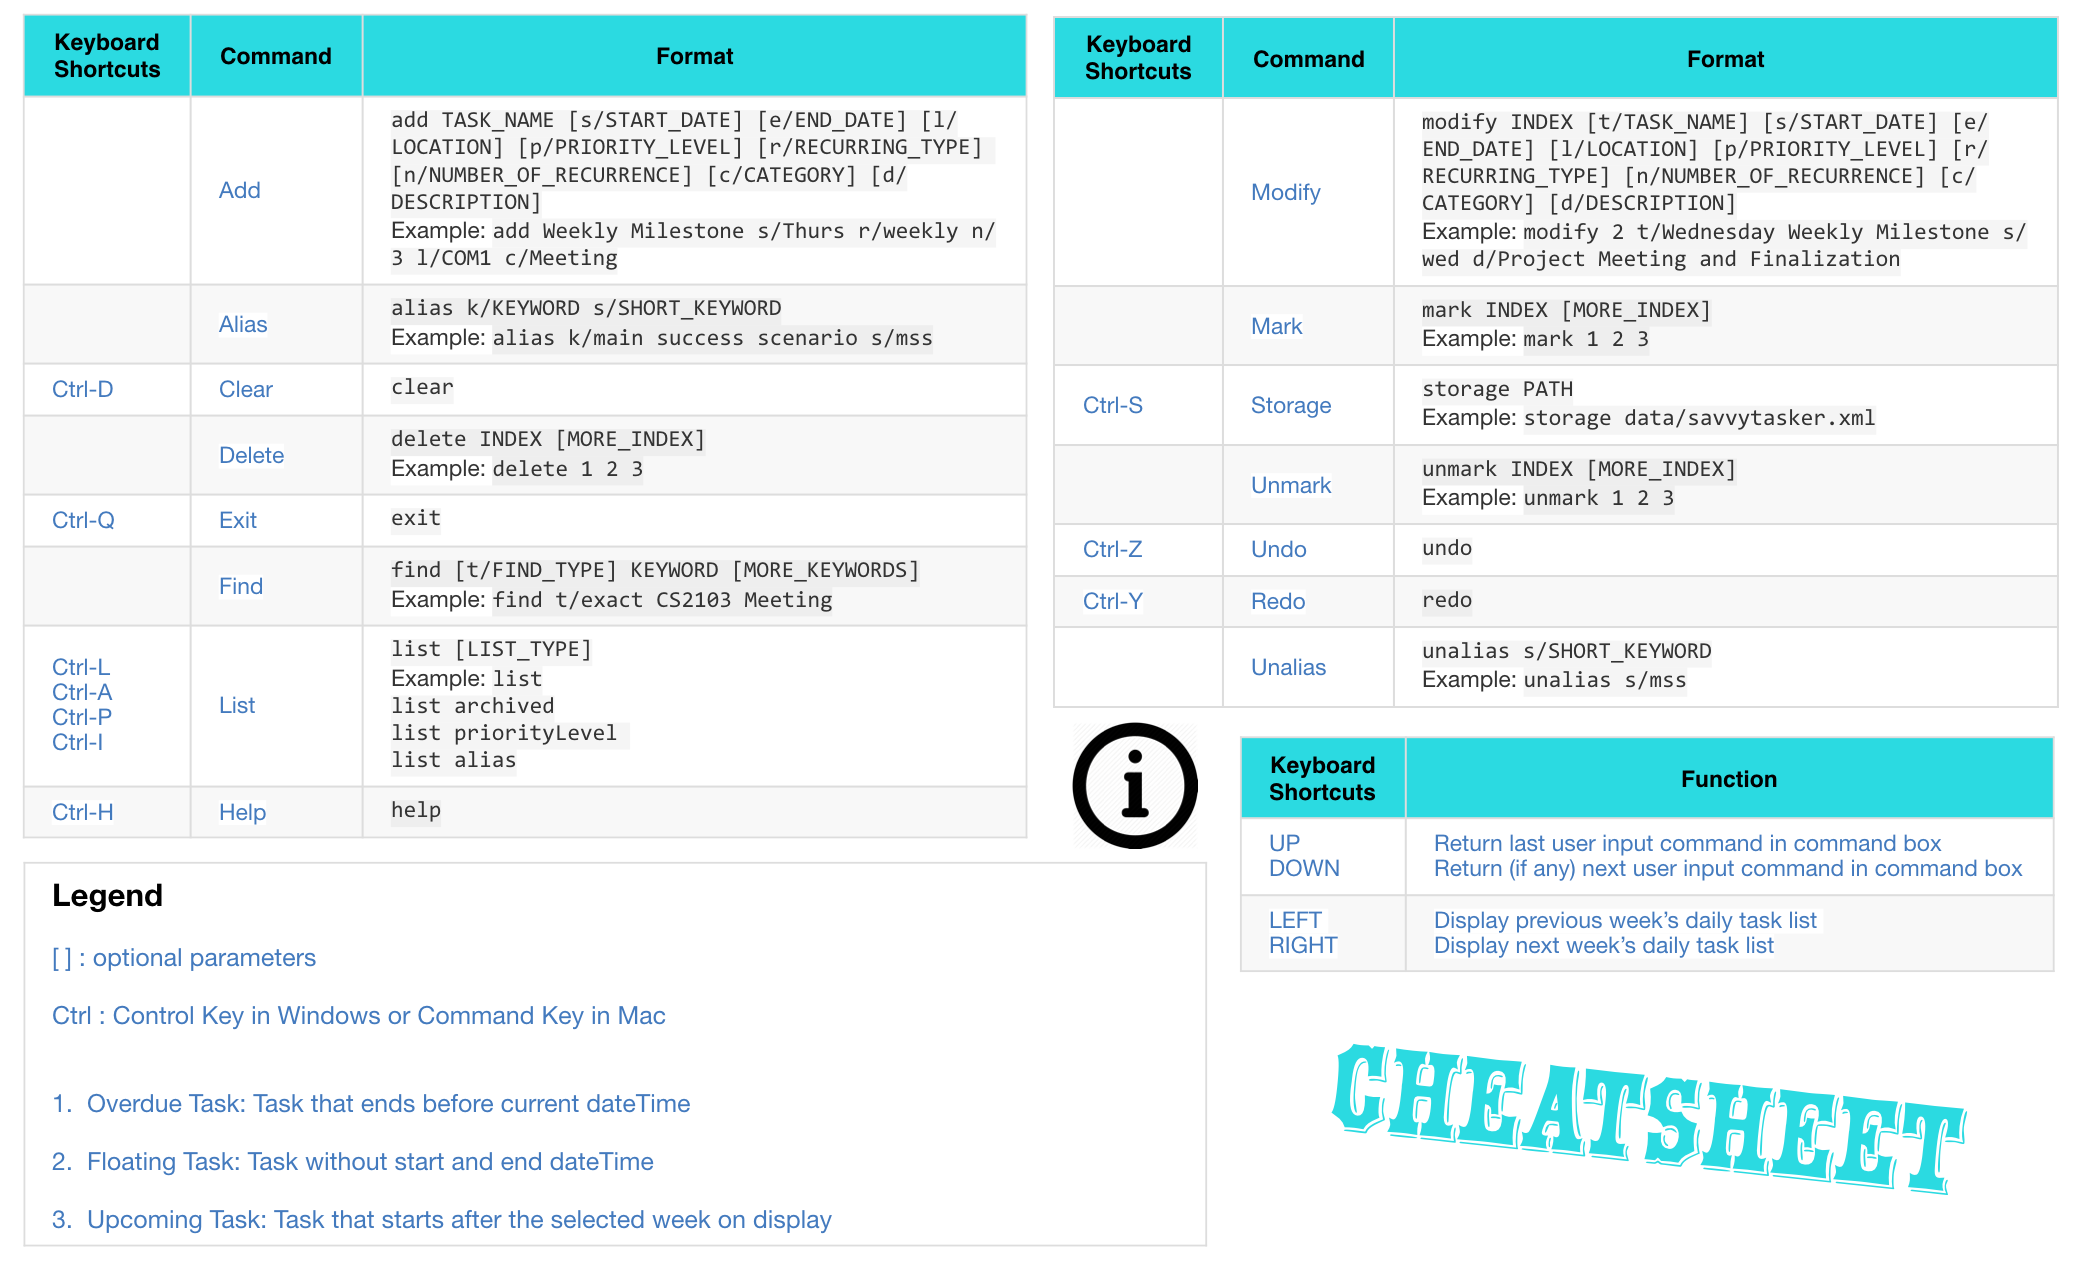
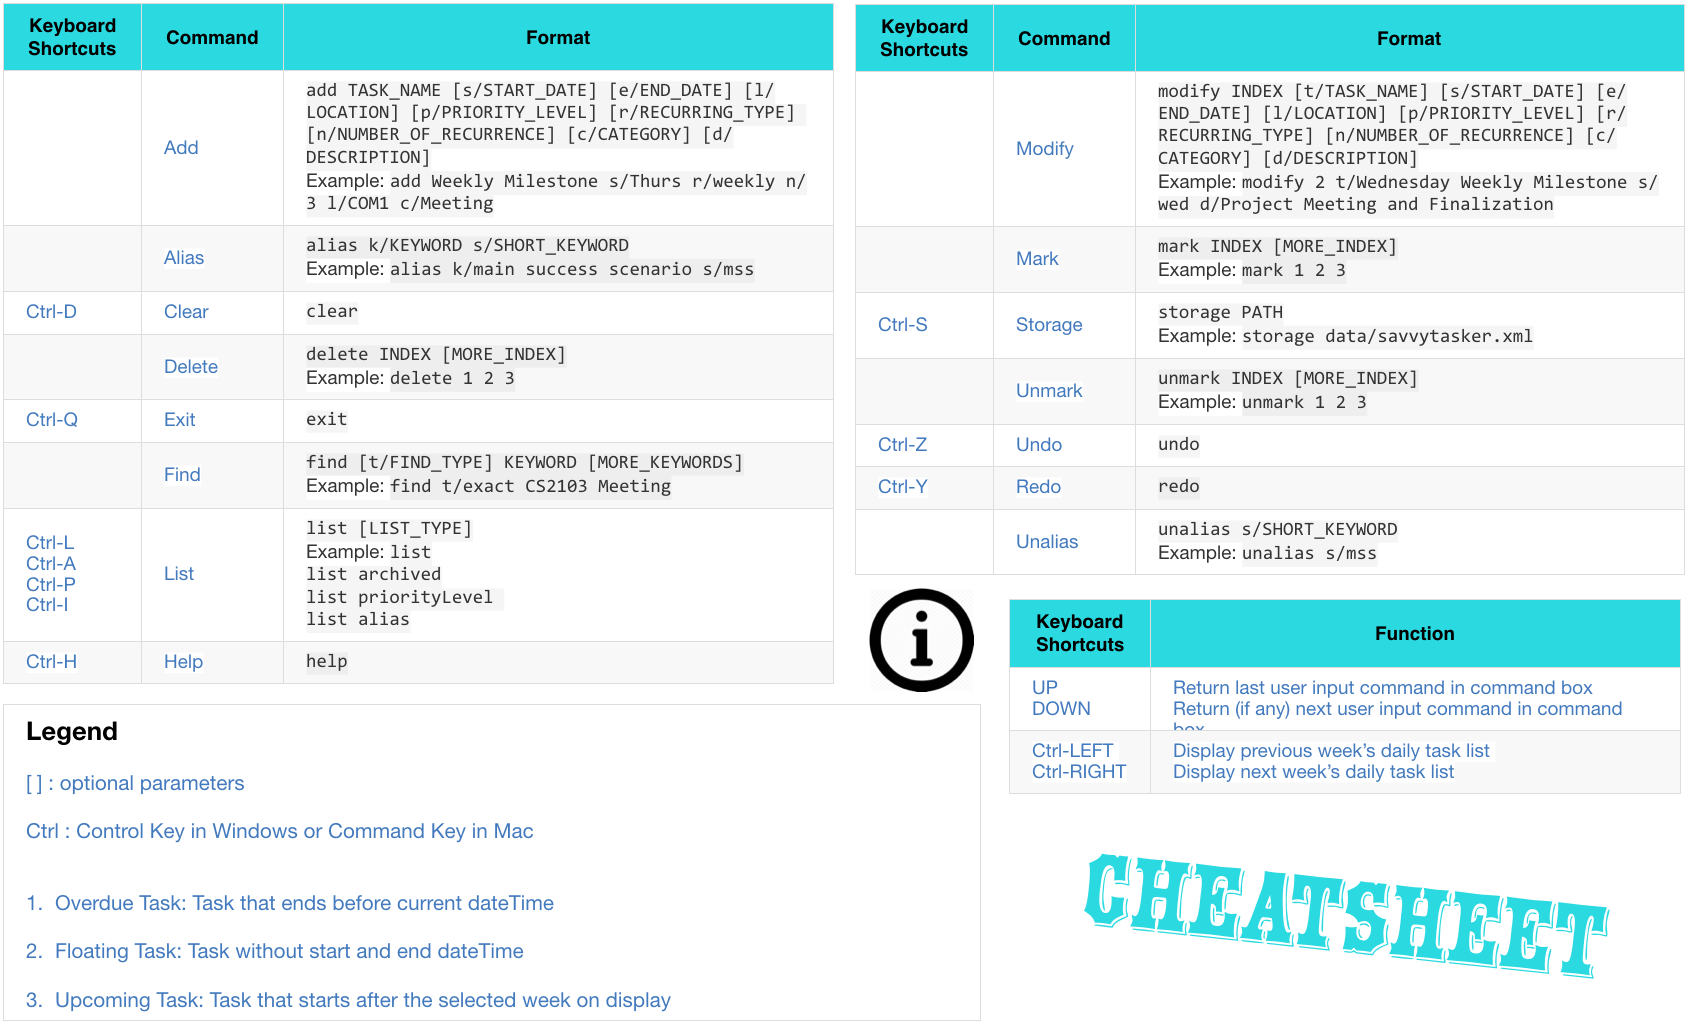
update left right to ctrl-left and ctrl-right

diff --git a/src/main/resources/view/DarkTheme.css b/src/main/resources/view/DarkTheme.css
@@ -293,9 +293,6 @@
     -fx-effect: innershadow(gaussian, black, 10, 0, 0, 0);
 }
 
-#taskListView {
-	-fx-background-color: transparent;
-}
 
 #header {
 	fx-font-size: 11px;

diff --git a/src/main/java/seedu/savvytasker/ui/CommandBox.java b/src/main/java/seedu/savvytasker/ui/CommandBox.java
@@ -63,6 +63,8 @@ public class CommandBox extends UiPart {
 	KeyCombination listPriorityKey = new KeyCodeCombination(KeyCode.P, KeyCombination.META_DOWN);
 	KeyCombination listAliasKey = new KeyCodeCombination(KeyCode.I, KeyCombination.META_DOWN);
 	KeyCombination clearKey = new KeyCodeCombination(KeyCode.D, KeyCombination.META_DOWN);
+	KeyCombination leftKey = new KeyCodeCombination(KeyCode.LEFT, KeyCombination.META_DOWN);
+	KeyCombination rightKey = new KeyCodeCombination(KeyCode.RIGHT, KeyCombination.META_DOWN);
     
     // stack to store commands history
  	private static Stack<String> COMMAND_HISTORY_STACK = new Stack<String>();
@@ -190,11 +192,11 @@ public class CommandBox extends UiPart {
 				
 				processDown(userInput);
 				
-			} else if (keyCode == KeyCode.LEFT) {
+			} else if (leftKey.match(keyEvent)) {
 
 				processDate(-1);
 				
-			} else if (keyCode == KeyCode.RIGHT) {
+			} else if (rightKey.match(keyEvent)) {
 				
 				processDate(1);
 				

diff --git a/src/main/java/seedu/savvytasker/ui/TaskListPanel.java b/src/main/java/seedu/savvytasker/ui/TaskListPanel.java
@@ -62,7 +62,6 @@ public class TaskListPanel extends UiPart {
     private void configure(ObservableList<ReadOnlyTask> taskList) {
         setConnections(taskList);
         addToPlaceholder();
-        taskListView.setStyle("-fx-background-color: transparent");
     }
 
     private void setConnections(ObservableList<ReadOnlyTask> taskList) {

diff --git a/docs/UserGuide.md b/docs/UserGuide.md
@@ -266,8 +266,8 @@ Add task named "pjm" to task list
 
 
 #### Week Selection
-[LEFT]: Display previous week’s daily task list
-[RIGHT]: Display next week’s daily task list
+[Ctrl-LEFT]: Display previous week’s daily task list
+[Ctrl-RIGHT]: Display next week’s daily task list
 
 ## Command Summary
 
@@ -306,5 +306,5 @@ Key Codes | Function | Command Box Input
 [Ctrl-Y](#redo-the-most-recent-undo-operation--redo) | `redo`
 [UP](#command-stack-history) | Return last user input command in command box | -
 [DOWN](#command-stack-history) | Return (if any) next user input command in command box | -
-[LEFT](#week-selection) | Display previous week’s daily task list | -
-[RIGHT](#week-selection) | Display next week’s daily task list | -
+[Ctrl-LEFT](#week-selection) | Display previous week’s daily task list | -
+[Ctrl-RIGHT](#week-selection) | Display next week’s daily task list | -
